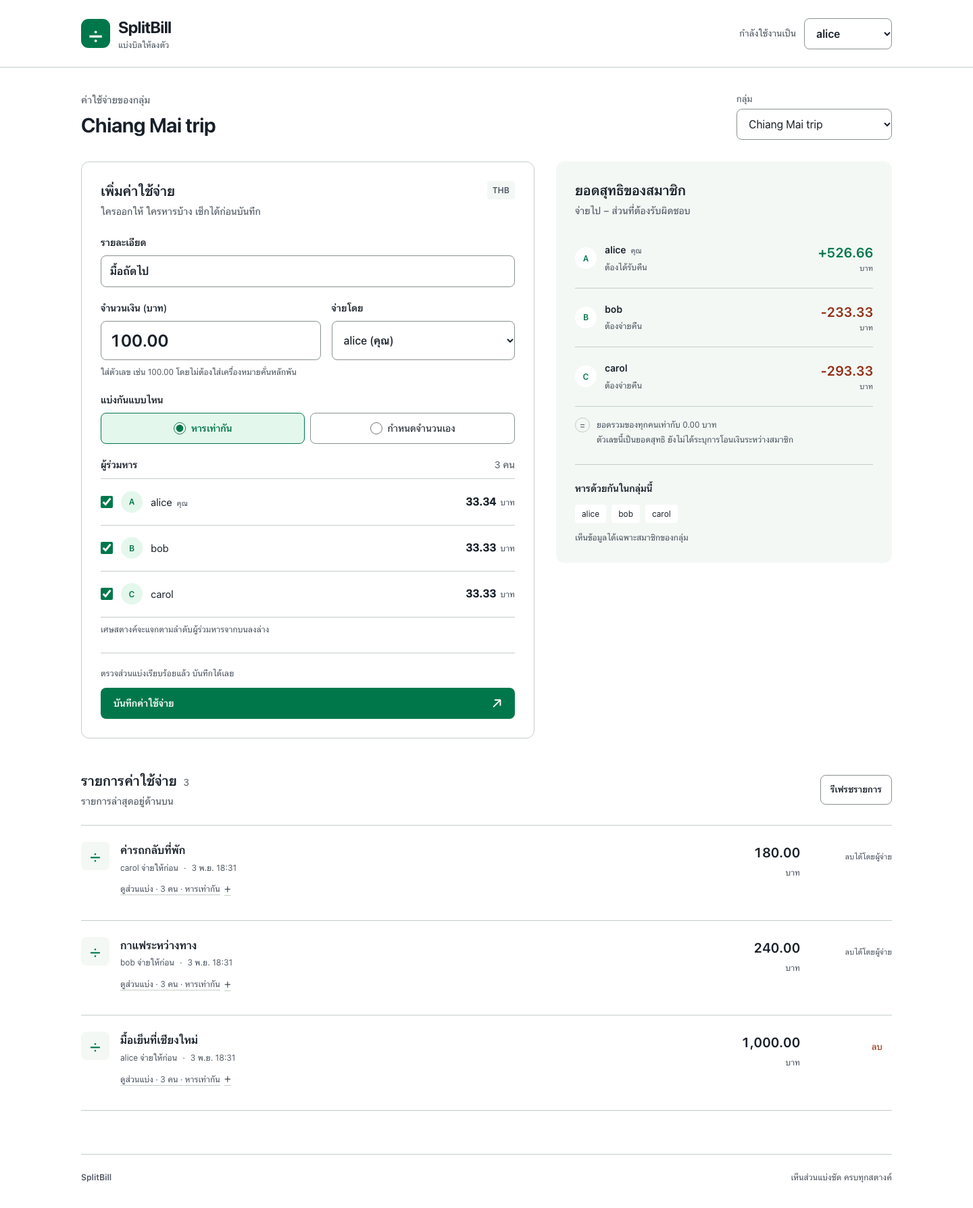
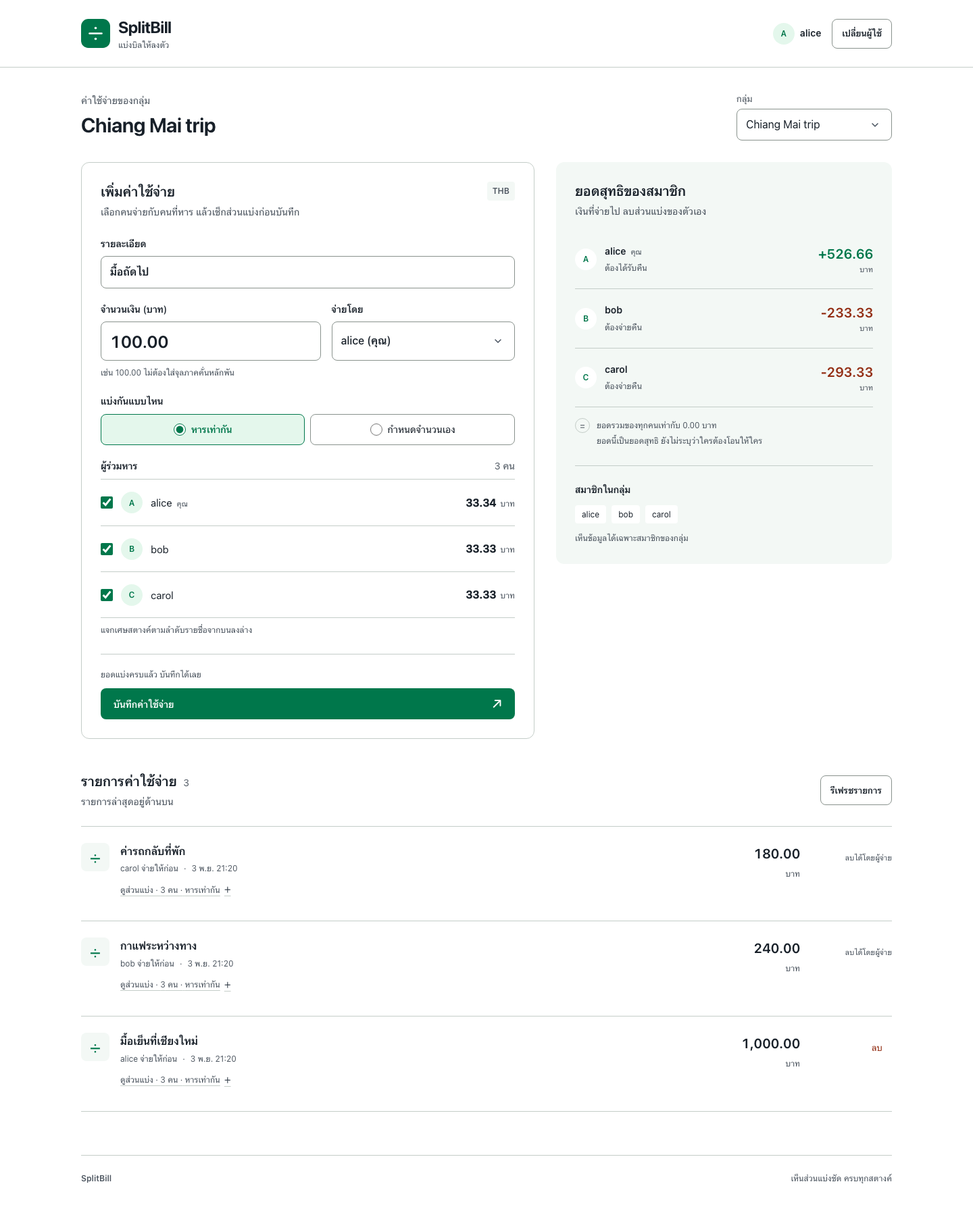
docs: record profile entry checks and refresh application examples

diff --git a/docs/frontend-plan.md b/docs/frontend-plan.md
@@ -2,6 +2,8 @@
 
 Status: the owner approved the design direction on 2026-11-03 and authorized full frontend implementation, real backend integration, reference images in design-system, and push to dev/frontend. This plan records intended behavior; actual checks are reported separately.
 
+The owner later approved a vertical profile-entry screen using the same four seeded users, direct entry after clicking a name, and a header action to return to the chooser. This change stays on the existing `/` page and is delivered to dev/frontend after its own checks.
+
 ## Design authority and evidence
 
 - Stitch created [SplitBill Thai Design System](https://stitch.withgoogle.com/projects/16468469070349900352) first. Its specimen board is the visual starting point; the root `DESIGN.md` will record the reviewed tokens and components.
@@ -17,13 +19,23 @@ The primary action is recording an expense with a preview the user can verify be
 
 | Area | Desktop | Mobile |
 | --- | --- | --- |
-| Context | Compact wordmark, user selector, group selector | Same controls wrap into labelled full-width rows |
+| Entry | Compact centered heading and four vertical profile buttons | Same full-width choices with readable spacing |
+| Context | Compact wordmark, current profile/change action, group selector | Profile action stays readable; group selector stacks |
 | Group | Name and member names, without invented trip metadata | Compact heading above the working area |
 | Entry | Main form with allocation rows immediately below split controls | Form first, normal document flow and full-width submit |
 | Balances | Adjacent compact member ledger | Below the form, explicit owe/owed labels retained |
 | Expenses | Newest-first list with expandable share detail | Reflow each row; amount and payer stay readable |
 
 Use Thai labels and messages with unchanged seeded usernames and group names. Money displays as `1,000.00` with a clear THB unit. Use text alongside semantic color; a sign or green/red alone does not explain who owes whom.
+
+## Profile entry and exit
+
+1. Show “คุณคือใคร?” before any profile is selected. Four native buttons select alice, bob, carol, or dan and enter directly; there is no automatic default or additional Continue action.
+2. After entry, show the current name and “เปลี่ยนผู้ใช้” in the header. It returns to the chooser. This changes the `X-User` assessment identity and does not introduce authentication, registration, or a server logout endpoint.
+3. Keep the profile in tab-local session storage for reloads. If an unresolved expense is restored, its captured user/group takes precedence over the ordinary saved profile.
+4. Before profile exit discards an edited draft, offer inline cancel/confirm actions. Cancel preserves the values. Confirm clears the old visible context, without deleting database records, and focuses the chooser heading.
+5. Block profile exit during create/delete requests and while a creation result is uncertain. Preserve the original pending key/body/user/group and same-intent retry. Keep late responses from repopulating a departed profile.
+6. Provide loading and recoverable API error states after selection. Preserve the established keyboard, focus, touch-target, contrast, and reduced-motion behavior.
 
 ## Expense entry and exact money
 
@@ -37,7 +49,7 @@ Use Thai labels and messages with unchanged seeded usernames and group names. Mo
 ## API and state ownership
 
 - Fetch `/groups` with `X-User`; use that response as the available group list. Fetch the selected group's detail, expenses, and balances. Balances are a direct member-to-money map, not an array or nested object.
-- On user/group changes, immediately remove the previous context's visible data and reset its editable form. Abort or ignore stale responses. A late response must never populate a different selected context.
+- On confirmed profile exit or group changes, immediately remove the previous context's visible data and reset its editable form. Abort or ignore stale responses. A late response must never populate a different selected context.
 - Keep the page shell server-rendered and the interactive workspace a client component. Group-selection requests need their own loading/error state; a route-level loading file cannot represent those subsequent requests.
 - After a successful create/delete, refetch expenses and balances from the API. Show a refresh failure separately from mutation failure, so a successfully created expense is not presented as an unsuccessful submission.
 - Preserve form values after recoverable validation errors. Map API error codes to plain-language Thai messages with field guidance where possible. Keep unauthorized, unavailable, and empty states distinct.
@@ -55,7 +67,7 @@ Use Thai labels and messages with unchanged seeded usernames and group names. Mo
 
 - Show Delete only when `expense.paid_by` equals the selected user. Use an inline confirmation or native dialog naming the expense; preserve keyboard focus and make Cancel the safe default.
 - Wait for the server's empty `204`; do not parse a JSON body or erase a row before authorization succeeds. On error retain the row and provide retry feedback.
-- Positive balance: “ต้องได้รับคืน”; negative: “ต้องจ่ายคืน”; zero: “ไม่มีค้าง”. Include every member, even when zero. These are balances, not a settlement/payment feature.
+- Positive balance: “ต้องได้รับคืน”; negative: “ต้องจ่ายคืน”; zero: “ยอดสุทธิเป็นศูนย์”. Include every member, even when zero. These are balances, not a settlement/payment feature.
 
 ## Interaction and quality bar
 
@@ -80,5 +92,7 @@ All controls have labels, visible focus, logical DOM/tab order, keyboard operati
 5. For this delivery, push to `origin/dev/frontend` as explicitly requested; do not merge into main. A later accepted milestone can follow the documented PR/merge/sync workflow. Record actual local/remote SHAs and checks; never infer success from configuration alone.
 
 Required checks include exact `0.10 + 0.20`, the two equal-split examples, exact mismatch/zero shares, large aggregate formatting, user/group isolation and rapid switching, lost-response same-key retry, payer-only deletion, and post-delete balances. Inspect desktop/mobile screenshots and keyboard paths. Update README setup/limitations and AI_NOTES with actual work and corrections.
+
+For the profile-entry change, adapt the browser user-switch helper instead of retaining the removed dropdown. Add checks for no profile/API load on fresh entry, keyboard selection, saved profile reload, exit, dirty-draft cancel/confirm, pending-owner precedence, and create/delete exit guards. Capture entry and workspace states at desktop/mobile sizes after the real integration run; record the results separately against the delivered SHA.
 
 No chart, global state/query/form library, custom select, full authentication, settlement endpoint, or extra route is needed for this milestone.

diff --git a/DESIGN.md b/DESIGN.md
@@ -8,6 +8,8 @@ description: Owner-approved design direction based on the reviewed SplitBill Sti
 
 Status: the owner approved this direction on 2026-11-03 and authorized frontend implementation and delivery to dev/frontend. Implementation and verification evidence are recorded separately.
 
+The owner subsequently approved an entry screen with four vertical profile buttons: choose alice, bob, carol, or dan to enter directly. The workspace header shows the current name and “เปลี่ยนผู้ใช้” instead of a user dropdown. The existing palette, typography, SVG logo, and single-page route remain the design authority.
+
 Stitch created [SplitBill Thai Design System](https://stitch.withgoogle.com/projects/16468469070349900352) on 2026-11-03 before frontend implementation. Its first specimen established a light surface, green primary actions, Thai/Latin sans typography, tabular money, 44px controls, split inputs, expense rows, and balance states. The owner confirmed a friendly, readable, quick-to-use personality.
 
 Physical scene: friends checking a shared bill on phones at a bright cafe table, with a laptop used later to review the group. Use a daylight-readable light theme and restrained color: white working surfaces, dark ink, and green reserved for actions and selected states.
@@ -74,7 +76,7 @@ typography:
 
 ## Layout
 
-One responsive working page. Place the wordmark, selected user, and selected group at the top. Make expense entry and its live allocation preview the primary working area; place a compact member-balance ledger alongside on desktop and below the form on mobile. Show newest-first expenses in readable rows with optional share detail. Use sections and separators instead of nested cards.
+One responsive page with an entry state and a working state. The entry state uses a compact centered heading, “คุณคือใคร?”, followed by four vertical profile buttons with an initial, username, and chevron. Selecting a name opens the workspace directly. Place the wordmark, current profile with its change action, and selected group at the top of the workspace. Make expense entry and its live allocation preview the primary working area; place a compact member-balance ledger alongside on desktop and below the form on mobile. Show newest-first expenses in readable rows with optional share detail. Use sections and separators instead of nested cards.
 
 ```yaml
 spacing:
@@ -87,7 +89,7 @@ spacing:
   content-max: 1200px
 ```
 
-At 375px, selectors and form fields stack, the submit button spans the available width, and expense rows reflow. Check 768px, 1024px, 1440px and increased zoom. Long descriptions and large balances must wrap without horizontal page scrolling.
+At 375px, profile choices remain full-width rows, the header's current profile and change action stay readable, the group selector and form fields stack, the submit button spans the available width, and expense rows reflow. Check 768px, 1024px, 1440px and increased zoom. Long descriptions and large balances must wrap without horizontal page scrolling.
 
 ## Elevation & Depth
 
@@ -105,13 +107,22 @@ Controls are at least 44px high with clear keyboard focus. A selected member rem
 
 ## Components
 
-- Context: labelled user and group controls; available groups and memberships come from the API.
+- Context: four native profile buttons before entry; current profile and “เปลี่ยนผู้ใช้” in the workspace; a labelled group selector with available groups and memberships from the API.
 - Form: description, decimal-string THB input, payer, equal/exact radio group, participants, allocation preview, and explicit exact-split remainder.
 - Action states: default, hover, focus, pressed, disabled, saving, success, and recoverable or uncertain failure. Explain why saving is disabled.
 - Data: member balances with signs and words; newest-first expense rows, payer, time, amount, shares, and payer-only deletion.
 - Loading/empty/error: stable skeletons, a useful first-expense message, plain-language Thai errors, and the correct refresh or same-intent retry action.
 
 The API contract defines behavior. Keep technical headers and retry keys out of the normal form. Preserve one frozen unresolved submission for safe retry; never silently reuse its key with edited data.
+
+## Profile entry and exit
+
+- No profile is selected automatically on first entry. Keep the heading, brief instruction, and four choices easy to scan; no extra Continue button is needed.
+- Remember the selected profile across reload in the same tab. A restored unresolved expense takes precedence and returns to its original user and group.
+- “เปลี่ยนผู้ใช้” returns to the chooser and removes the old profile's visible workspace data. Stored expenses remain in PostgreSQL.
+- An edited draft requires an inline confirmation before it is discarded. Cancel keeps the values and returns focus to the change action; returning to the chooser focuses its heading.
+- Block profile exit during create/delete requests and while a creation result remains uncertain. Keep the original pending key, body, user, and group available for retry.
+- Use the same existing `/` page. Profile selection does not add registration, a password flow, or server-side logout.
 
 ## Do's and Don'ts
 

diff --git a/README.md b/README.md
@@ -152,7 +152,11 @@ npm run dev
 
 Open **http://localhost:3000**. The default public API URL is `http://127.0.0.1:8000`; change `NEXT_PUBLIC_API_URL` in `frontend/.env.local` if needed, then restart Next. The backend's `CORS_ORIGINS` must include the browser origin (the default is `http://localhost:3000`). Database URLs and passwords belong only in the ignored root `.env`, never in frontend configuration.
 
-Select alice, bob, carol, or dan, then an accessible group. Add a description and amount, select the payer and participants, and inspect the allocation before saving. Exact mode displays the unallocated/over-allocated amount and blocks submission until all shares sum to the bill. Expense details show stored shares; only the payer sees the delete action. Balances label money owed to a member, money the member owes, or zero net balance; no transfer/payment capability is implied.
+The first screen asks “คุณคือใคร?”. Click alice, bob, carol, or dan to enter directly, then choose an accessible group. The workspace header shows the current name and “เปลี่ยนผู้ใช้” to return to the chooser. Profile selection is remembered across reload in the same tab; a restored unresolved expense takes precedence and restores its original user and group. This is the assessment's `X-User` profile selection, not account login or server-side logout.
+
+Changing users asks for confirmation before discarding an edited draft. Cancelling keeps the draft. The change action is unavailable during create/delete requests and while a creation result is uncertain, so exiting cannot discard a pending expense. Leaving a profile clears its visible workspace state, not its stored expenses.
+
+Add a description and amount, select the payer and participants, and inspect the allocation before saving. Exact mode displays the unallocated/over-allocated amount and blocks submission until all shares sum to the bill. Expense details show stored shares; only the payer sees the delete action. Balances label money owed to a member, money the member owes, or zero net balance; no transfer/payment capability is implied.
 
 Amounts stay decimal strings at the API boundary. The frontend parses them into `BigInt` integer satang, divides with quotient/remainder in visible member order, and formats integer digits with two decimal places. No money passes through `Number`, `parseFloat`, or binary floating-point multiplication. Exact shares may be zero; signed aggregate balances are formatted without the single-expense limit. Thus `0.10 + 0.20` stays `0.30`, and `100.00 / 3` becomes `33.34 / 33.33 / 33.33` independently of who paid.
 
@@ -190,6 +194,8 @@ backend/.venv/bin/python scripts/test-frontend-integration.py
 The runner reads `TEST_DATABASE_URL` from the environment or ignored root `.env`, requires PostgreSQL 16 and a separate test database, creates a randomly named schema, migrates/seeds it, builds Next for test API port 8059, and starts its own API8059/frontend3001. It drops only that schema and stops its own processes on completion. Keep those two ports free. It never seeds or deletes application data. Port overrides are available with `--api-port` and `--web-port`.
 
 The checks exercise real group access, ordered equal splits, exact totals/zero shares, creation/list/balances, payer deletion, authorization, and zero-sum totals. Failure simulations delay real responses or discard one response after the real backend commits; they do not replace the API or database with fake success data. They verify frozen-key retry across reload and protection against old responses. Responsive screenshots are written to `design-system`; failed browser checks leave diagnostic evidence in a temporary directory. The [frontend CI workflow](.github/workflows/frontend.yml) runs lint/type/native tests, production build and these browser checks with PostgreSQL 16.
+
+At the profile-entry local checkpoint, ESLint, TypeScript, six native Node tests, the production Webpack build, and all 13 Chromium/FastAPI/PostgreSQL 16 acceptance groups passed. Added coverage includes first-entry and keyboard selection, same-tab reload and fresh-tab behavior, draft cancellation/confirmation, pending-owner restoration, blocked exit during writes, and profile-storage failure after a real committed POST. These are local results; remote CI and delivered SHA are recorded separately.
 
 The runner's build points to its temporary API port. Rebuild with your normal API configuration before using `npm start` afterward; `npm run dev` reads your normal environment independently. Commit-specific local/remote check results belong in the delivery record, not an assertion inferred from this workflow file.
 

diff --git a/AI_NOTES.md b/AI_NOTES.md
@@ -137,3 +137,15 @@ The first dependency resolution stalled with ESLint10 peer overrides; the implem
 Local verification on the final formatted UI source: ESLint, TypeScript, six native Node money/pending-intent tests, and a fresh production Webpack build passed. The real Chromium/FastAPI/PostgreSQL16 runner passed ten acceptance groups, including equal/exact/zero-share calculations, group and payer authorization, frozen-key replay across reload after a real commit with a simulated lost response, post-delete balances, and delayed responses within/across contexts. Keyboard checks cover Space/arrow allocation controls and Cancel/default focus, focus restoration, and Tab/Enter deletion. Overflow checks passed at 375/390/768/1024/1440px; reduced-motion mode and uncaught-browser-error checks passed. Backend regression checks separately passed 151 tests with warnings as errors, Ruff over 36 files and OpenAPI consistency. The Python runner also passed Ruff lint/format. Remote CI/push identity is reported only after actual delivery.
 
 Actual desktop/mobile screenshots use friendly synthetic expenses in the runner's random schema. The schema and owned processes were cleaned after the run. The later Stitch asset pass could not obtain a verified source export, so no application screenshot is labelled as a Stitch image. Approximate frontend implementation/local-review time was about an hour, including dependency/tooling retries and excluding the earlier design session; this is an estimate, not a precise time log.
+
+## Profile-entry flow (2026-11-03)
+
+The user found the persistent header identity dropdown awkward and asked for an entry screen and an action to change people. The user confirmed the four existing seeded users and approved the vertical, direct-entry list after comparing two built-in Imagegen probes. UI UX Pro Max searches and Impeccable shape/product guidance informed the proposal; the existing white/green system, Noto Sans Thai, and SVG logo remain the implementation sources. The generated probes are visual references, not implemented UI or verified application screenshots.
+
+The approved flow stays on `/`: choose a name, enter that person's workspace, and use “เปลี่ยนผู้ใช้” to return. It remembers the profile for reloads in the same tab, restores the original owner of an unresolved expense, asks before discarding an edited draft, and blocks profile exit during writes or uncertain creation. It retains the assessment's `X-User` convention without adding account authentication, registration, or a server logout endpoint.
+
+Independent review found that failure to persist the restored profile could expose the manual pending-clear action even when the frozen expense was valid. The correction separates profile-storage errors from unreadable-pending recovery, removes that clearing action for valid pending expenses, and persists the profile before clearing a resolved intent. A regression injected a profile-storage failure after a real POST committed: the frozen intent survived, three POST attempts retained the same key/body, and PostgreSQL held one expense row. Removing the failure allowed replay cleanup and reload as the original user. The form's redundant success reset was also removed because the parent already remounts it after success.
+
+Local verification passed ESLint, TypeScript, six native Node tests, the production Webpack build, and all 13 real Chromium/FastAPI/PostgreSQL 16.13 acceptance groups. The updated entry/exit tests cover no default profile or initial API read, all four profiles, keyboard and reload/fresh-tab behavior, exit focus, dirty-draft cancellation/discard, pending-owner precedence over a conflicting stored profile, create/delete exit guards, and the existing allocation, authorization, retry, deletion and stale-response scenarios. The Python runner passed Ruff lint and formatting. Additional browser checks verified profile-storage entry/exit failures and recovery and that restoring the original participant selection leaves a clean draft; those injected failures are separate from real backend-write evidence.
+
+The runner captured entry and workspace desktop/mobile PNGs after the checks. Workspace examples still use the three synthetic expenses in its random schema. Cleanup of that schema and the owned test processes was verified, leaving the user's running API and development server unaffected. These are local results; remote CI, push identity and final SHA are recorded after actual delivery.

diff --git a/design-system/README.md b/design-system/README.md
@@ -2,6 +2,8 @@
 
 The owner approved the direction in [DESIGN.md](../DESIGN.md): a friendly, readable Thai interface, white working surfaces, green primary actions, exact monetary previews, and a responsive single-page expense workflow.
 
+The approved profile-entry update replaces the header's user dropdown with four vertical choices before entering, then the current name and “เปลี่ยนผู้ใช้” in the workspace. It retains the same palette, self-hosted font, and division-mark SVG.
+
 ## Sources
 
 - [SplitBill Thai Design System in Stitch](https://stitch.withgoogle.com/projects/16468469070349900352) was created before frontend implementation on 2026-11-03.
@@ -29,8 +31,10 @@ Screenshots added to this directory from the implemented frontend are examples o
 | --- | --- |
 | [frontend-desktop.png](frontend-desktop.png) | Chromium, 1440px viewport, full page |
 | [frontend-mobile.png](frontend-mobile.png) | Chromium, 390px viewport, full page |
+| [frontend-entry-desktop.png](frontend-entry-desktop.png) | Chromium, 1440px viewport, profile entry |
+| [frontend-entry-mobile.png](frontend-entry-mobile.png) | Chromium, 390px viewport, profile entry |
 
-Both images were generated on 2026-11-03 by [the integration runner](../scripts/test-frontend-integration.py) against the production Next build, real FastAPI endpoints, and a disposable PostgreSQL16 test schema. Fonts and finite transitions finished before capture. The example dinner1000.00, coffee240.00, and taxi180.00 were created through the real API in that isolated schema. The form previews a separate, unsaved100.00 bill; that draft is not included in the displayed balances. The schema is removed after the run; no application transactions appear in these images.
+These four images were captured on 2026-11-03 by [the integration runner](../scripts/test-frontend-integration.py) during the passing profile-entry run, using the production Next build, real FastAPI endpoints, and a disposable PostgreSQL 16.13 test schema. Fonts and finite transitions finished before capture. The entry images show the initial chooser before profile selection or API reads. The workspace images replace the earlier captures and show example dinner1000.00, coffee240.00, and taxi180.00 expenses created through the real API in that isolated schema. The form previews a separate, unsaved100.00 bill; that draft is not included in the displayed balances. The schema and owned test processes were removed after the run; no application transactions appear in these images.
 
 The same runner checks page overflow at 375/390/768/1024/1440px and reduced motion. This is Chromium evidence, not a claim of testing every browser or every device. These files are application screenshots, not Stitch exports.
 
@@ -41,3 +45,11 @@ The same runner checks page overflow at 375/390/768/1024/1440px and reduced moti
 The header uses the same SVG as the favicon rather than a font glyph, keeping the division mark centered at both sizes. These crops were captured from the running development app on 2026-11-03 after the image and fonts loaded: [desktop, 1440px viewport](logo-desktop.png) and [mobile, 390px viewport](logo-mobile.png). They show the header only and do not replace the full-stack screenshots above.
 
 ![Aligned desktop header logo](logo-desktop.png)
+
+## Profile-entry references
+
+The owner compared two Imagegen direction probes and selected the vertical direct-entry list. Those generated images are design references, not screenshots of the application. The implementation uses native buttons and the existing SVG logo; generated texture and text-rendering artifacts are not part of the design.
+
+The entry images in the table above are actual application captures from the passing 13-group browser run. The header-only logo crops retain their earlier capture conditions and document the shared SVG mark rather than the new entry interaction.
+
+![Profile entry on desktop](frontend-entry-desktop.png)

diff --git a/PRODUCT.md b/PRODUCT.md
@@ -10,7 +10,7 @@ web
 
 ## Users
 
-Friends sharing expenses in a group. The assessment uses the seeded users alice, bob, carol, and dan; selecting a user determines which groups and expenses they may access.
+Friends sharing expenses in a group. The assessment uses the seeded users alice, bob, carol, and dan. Users choose a name on the entry screen before viewing that person's groups and expenses, then use “เปลี่ยนผู้ใช้” to return to the chooser. This selects an assessment profile through `X-User`; it is not account authentication.
 
 ## Product Purpose
 
@@ -33,6 +33,7 @@ No specific reference product was supplied. Keep the interface focused on the ex
 - Show the allocation before recording it.
 - Explain whether a member owes money or is owed money in words.
 - Keep the selected user and group clear throughout every action.
+- Confirm before discarding an edited draft when changing users, and retain unresolved submissions until their outcome is known.
 - Preserve an uncertain submission so retrying does not create another bill.
 - Use the API as the authority for access, saved expenses, and balances.
 
